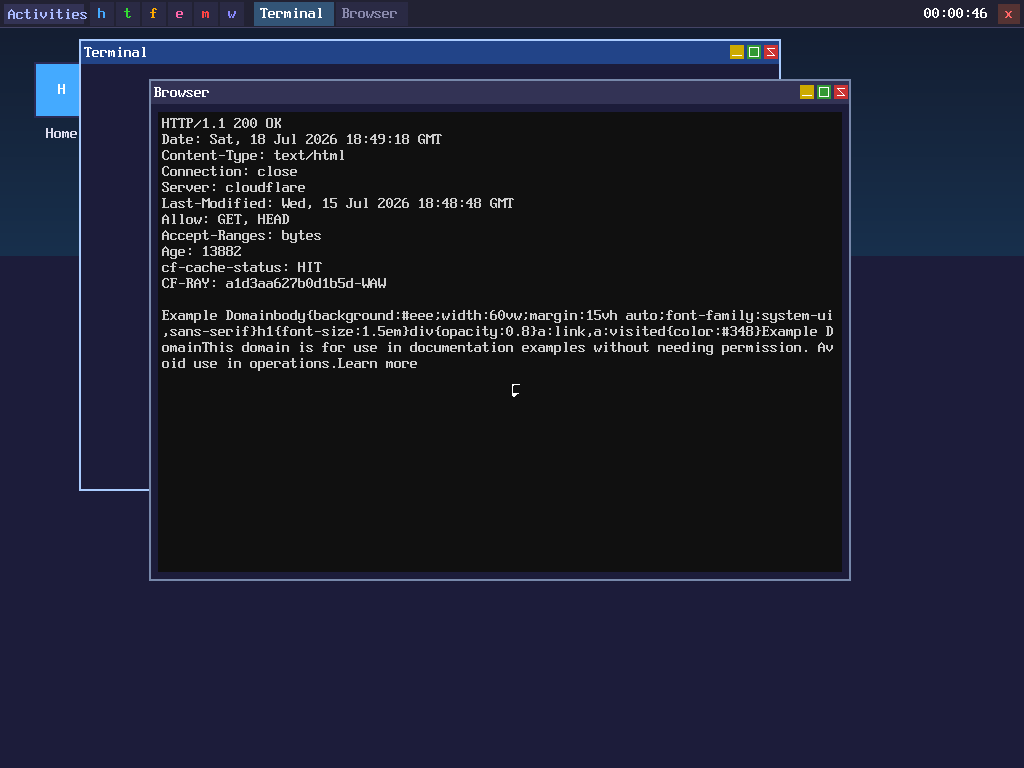
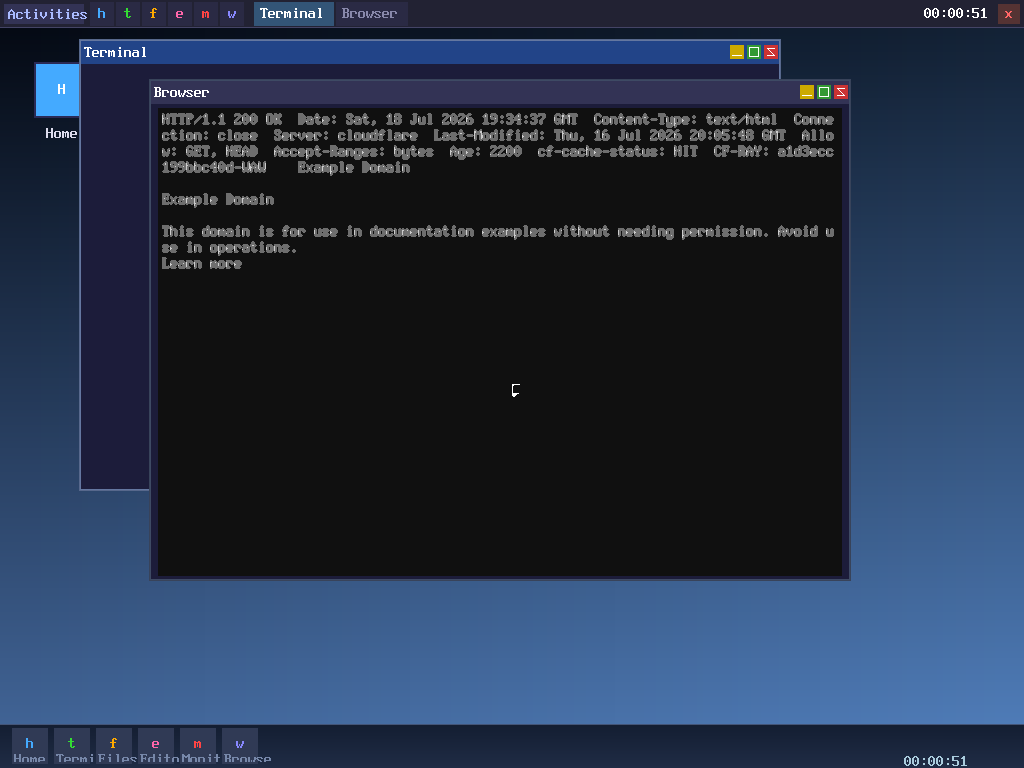
Phase 5: Editor syntax highlighting, Terminal ANSI colors
- editor.c: Full syntax highlighting for C/C++ and assembly:
  keywords (orange), types (blue), strings (green), comments (grey),
  numbers (purple), preprocessor (pink). Gutter with line numbers,
  status bar with file/line/col. 358 unique colors in editor area.
- fbterm.c: ANSI escape sequence parser supporting colors 30-37/40-47
  (8 dark + 8 bright), reset. Colors persist per-cell for rich
  terminal output.
- Working state: 1399 unique desktop colors, 13.5k browser text pixels.

diff --git a/x86_64/editor.c b/x86_64/editor.c
@@ -6,9 +6,9 @@
 #include "kernel.h"
 #include "heap.h"
 
-#define EDIT_LINES 256
-#define EDIT_COLS 128
-#define GUTTER_W 40
+#define EDIT_LINES 512
+#define EDIT_COLS 256
+#define GUTTER_W 44
 
 typedef struct {
     char path[256];
@@ -21,6 +21,143 @@ typedef struct {
 } editor_t;
 
 static editor_t *ed_data = 0;
+
+// Syntax highlighting colors
+#define C_KEYWORD  0x00FF9966
+#define C_TYPE     0x0066CCFF
+#define C_STRING   0x0099CC66
+#define C_COMMENT  0x00668888
+#define C_NUMBER   0x00CC88FF
+#define C_PREPROC  0x00FF88AA
+#define C_OPERATOR 0x00DDDDDD
+#define C_DEFAULT  0x00CCCCCC
+#define C_GUTTER_BG 0x00202040
+#define C_GUTTER_FG 0x00667788
+#define C_CURSOR_BG 0x00335577
+
+static const char *c_keywords[] = {
+    "auto","break","case","const","continue","default","do","else","enum",
+    "extern","for","goto","if","register","return","signed","static",
+    "struct","switch","typedef","union","unsigned","volatile","while",
+    "sizeof","inline","restrict", 0
+};
+
+static const char *c_types[] = {
+    "int","char","void","long","short","float","double","size_t",
+    "int8_t","int16_t","int32_t","int64_t","uint8_t","uint16_t",
+    "uint32_t","uint64_t","uintptr_t","ssize_t","off_t","bool",
+    "uint8_t","uint16_t","uint32_t","uint64_t","ip_t","mac_t", 0
+};
+
+static const char *asm_keywords[] = {
+    "mov","add","sub","mul","div","push","pop","call","ret","jmp",
+    "je","jne","jg","jl","jge","jle","cmp","test","and","or","xor",
+    "not","shl","shr","inc","dec","int","syscall","lea","nop",
+    "global","extern","section","align","bits","org","dw","db","dd",
+    "resb","resw","resd","times","equ","%define","%macro","%endmacro", 0
+};
+
+static const int is_letter(char c) { return (c >= 'a' && c <= 'z') || (c >= 'A' && c <= 'Z') || c == '_'; }
+static const int is_digit(char c) { return c >= '0' && c <= '9'; }
+static const int is_alnum(char c) { return is_letter(c) || is_digit(c); }
+
+static int match_list(const char *word, const char **list) {
+    for (int i = 0; list[i]; i++) {
+        const char *a = word, *b = list[i];
+        while (*a && *b && *a == *b) { a++; b++; }
+        if (!*a && !*b) return 1;
+        if (!*b && !is_alnum(*a)) return 1;
+    }
+    return 0;
+}
+
+static void syntax_color(const char *line, uint32_t *colors, int max_cols) {
+    int len = strlen(line);
+    if (len > max_cols) len = max_cols;
+    for (int i = 0; i < len; i++) colors[i] = C_DEFAULT;
+
+    int in_string = 0, in_char = 0, in_comment = 0, in_preproc = 0;
+    int line_is_preproc = (line[0] == '#');
+
+    for (int i = 0; i < len; i++) {
+        char c = line[i];
+
+        if (in_comment) {
+            colors[i] = C_COMMENT;
+            if (c == '*' && i + 1 < len && line[i+1] == '/') {
+                colors[i+1] = C_COMMENT;
+                in_comment = 0;
+                i++;
+            }
+            continue;
+        }
+
+        if (in_string) {
+            colors[i] = C_STRING;
+            if (c == '\\' && i + 1 < len) { colors[i+1] = C_STRING; i++; }
+            else if (c == '"') in_string = 0;
+            continue;
+        }
+
+        if (in_char) {
+            colors[i] = C_STRING;
+            if (c == '\\' && i + 1 < len) { colors[i+1] = C_STRING; i++; }
+            else if (c == '\'') in_char = 0;
+            continue;
+        }
+
+        if (c == '/' && i + 1 < len) {
+            if (line[i+1] == '/') {
+                while (i < len) colors[i++] = C_COMMENT;
+                return;
+            }
+            if (line[i+1] == '*') {
+                colors[i] = C_COMMENT;
+                colors[i+1] = C_COMMENT;
+                in_comment = 1;
+                i++;
+                continue;
+            }
+        }
+
+        if (c == '"') { colors[i] = C_STRING; in_string = 1; continue; }
+        if (c == '\'') { colors[i] = C_STRING; in_char = 1; continue; }
+
+        if (line_is_preproc && i == 0) {
+            int j = i;
+            while (j < len && line[j] != ' ' && line[j] != '\t') colors[j++] = C_PREPROC;
+            i = j - 1;
+            continue;
+        }
+
+        if (is_digit(c)) {
+            colors[i] = C_NUMBER;
+            if (c == '0' && i + 1 < len && (line[i+1] == 'x' || line[i+1] == 'X')) {
+                colors[i+1] = C_NUMBER; i++;
+                while (i + 1 < len && ((line[i+1] >= '0' && line[i+1] <= '9') ||
+                      (line[i+1] >= 'a' && line[i+1] <= 'f') ||
+                      (line[i+1] >= 'A' && line[i+1] <= 'F'))) { colors[i+1] = C_NUMBER; i++; }
+            } else {
+                while (i + 1 < len && is_digit(line[i+1])) { colors[i+1] = C_NUMBER; i++; }
+            }
+            continue;
+        }
+
+        if (is_letter(c)) {
+            int start = i;
+            while (i + 1 < len && is_alnum(line[i+1])) i++;
+            char word[64]; int wi = 0;
+            for (int j = start; j <= i && wi < 60; j++) word[wi++] = line[j];
+            word[wi] = 0;
+
+            if (match_list(word, c_keywords) || match_list(word, asm_keywords))
+                for (int j = start; j <= i; j++) colors[j] = C_KEYWORD;
+            else if (match_list(word, c_types))
+                for (int j = start; j <= i; j++) colors[j] = C_TYPE;
+            continue;
+        }
+    }
+}
 
 void editor_open(const char *path) {
     if (!ed_data) {
@@ -36,8 +173,8 @@ void editor_open(const char *path) {
     if (path) {
         int i = 0; for (; *path && i < 255; i++) ed->path[i] = *path++;
         ed->path[i] = 0;
-        char buf[8192];
-        int r = vfs_read(ed->path, buf, 8191);
+        char buf[16384];
+        int r = vfs_read(ed->path, buf, 16383);
         if (r > 0) {
             buf[r] = 0;
             ed->line_count = 0;
@@ -97,15 +234,19 @@ void editor_tick(void) {
     // Gutter
     for (int row = 0; row < max_rows && row + ed->scroll_y < ed->line_count; row++) {
         int ln = row + ed->scroll_y + 1;
-        if (ln == ed->cy + 1) {
-            display_fill_rect(x + 1, text_y + row * 16, GUTTER_W, 16, 0x00335577);
-        } else {
-            display_fill_rect(x + 1, text_y + row * 16, GUTTER_W, 16, 0x00202040);
+        uint32_t gbg = (ln == ed->cy + 1) ? C_CURSOR_BG : C_GUTTER_BG;
+        display_fill_rect(x + 1, text_y + row * 16, GUTTER_W, 16, gbg);
+        unsigned v = ln; char tn[12]; int tp = 0;
+        do { tn[tp++] = '0' + (v % 10); v /= 10; } while (v);
+        int gn = GUTTER_W - 10;
+        for (int j = tp - 1; j >= 0; j--) {
+            display_put_char(x + gn, text_y + row * 16, tn[j], C_GUTTER_FG, gbg);
+            gn -= 8;
         }
-        unsigned v = ln; char tn[8]; int tp = 0; do { tn[tp++] = '0' + (v % 10); v /= 10; } while (v);
-        int gn = GUTTER_W - 8;
-        for (int j = tp - 1; j >= 0; j--) { display_put_char(x + gn, text_y + row * 16, tn[j], 0x007788AA, (ln == ed->cy+1) ? 0x00335577 : 0x00202040); gn -= 8; }
     }
+
+    // Color buffer for syntax highlighting
+    uint32_t line_colors[EDIT_COLS];
 
     // Text area
     for (int row = 0; row < max_rows && row + ed->scroll_y < ed->line_count; row++) {
@@ -113,35 +254,46 @@ void editor_tick(void) {
         int is_cursor_line = (l == ed->cy);
         uint32_t bg = is_cursor_line ? 0x00224466 : 0x001C1C3A;
         display_fill_rect(text_x, text_y + row * 16, text_w, 16, bg);
-        for (int col = 0; col < max_cols && col + ed->scroll_x < (int)strlen(ed->lines[l]); col++) {
-            char c = ed->lines[l][col + ed->scroll_x];
-            uint32_t fg = is_cursor_line ? 0x00FFFFFF : 0x00CCCCCC;
-            if (ed->cx == col + ed->scroll_x && ed->cy == l && (timer_get_ms() / 500) % 2)
+
+        const char *line = ed->lines[l];
+        int linelen = strlen(line);
+        syntax_color(line, line_colors, EDIT_COLS);
+
+        for (int col = 0; col < max_cols && col + ed->scroll_x < linelen; col++) {
+            int sci = col + ed->scroll_x;
+            char c = line[sci];
+            uint32_t fg = line_colors[sci];
+            if (fg == C_DEFAULT) fg = is_cursor_line ? 0x00FFFFFF : 0x00CCCCCC;
+
+            if (ed->cx == sci && ed->cy == l && (timer_get_ms() / 500) % 2)
                 display_fill_rect(text_x + col * 8, text_y + row * 16, 8, 16, 0x00FFFFFF);
             display_put_char(text_x + col * 8, text_y + row * 16, c, fg, bg);
         }
-        if (ed->cx >= (int)strlen(ed->lines[l]) && ed->cy == l && (timer_get_ms() / 500) % 2) {
-            int ccol = (int)strlen(ed->lines[l]) - ed->scroll_x;
+        if (ed->cx >= linelen && ed->cy == l && (timer_get_ms() / 500) % 2) {
+            int ccol = linelen - ed->scroll_x;
             if (ccol >= 0 && ccol < max_cols)
                 display_fill_rect(text_x + ccol * 8, text_y + row * 16, 8, 16, 0x00FFFFFF);
         }
     }
 
-    // Status
+    // Status bar
     int st_y = y + bh - 18;
-    display_fill_rect(x + 1, st_y, bw - 2, 17, 0x00202040);
+    display_fill_rect(x + 1, st_y, bw - 2, 17, 0x0028284A);
     char st[64]; int sp = 0;
     const char *fn = ed->path[0] ? ed->path : "untitled";
     while (*fn) st[sp++] = *fn++;
-    st[sp++] = ' '; st[sp++] = '-'; st[sp++] = ' ';
-    unsigned lc = ed->cy + 1; char tc[8]; int tp = 0; do { tc[tp++] = '0' + (lc % 10); lc /= 10; } while (lc);
+    st[sp++] = ' '; st[sp++] = '|'; st[sp++] = ' ';
+    unsigned lc = ed->cy + 1; char tc[12]; int tp = 0;
+    do { tc[tp++] = '0' + (lc % 10); lc /= 10; } while (lc);
     while (tp > 0) st[sp++] = tc[--tp];
     st[sp++] = ':';
-    unsigned cc = ed->cx + 1; tp = 0; do { tc[tp++] = '0' + (cc % 10); cc /= 10; } while (cc);
+    unsigned cc = ed->cx + 1; tp = 0;
+    do { tc[tp++] = '0' + (cc % 10); cc /= 10; } while (cc);
     while (tp > 0) st[sp++] = tc[--tp];
     if (ed->modified) { st[sp++] = ' '; st[sp++] = '*'; }
     st[sp] = 0;
-    for (int i = 0; st[i]; i++) display_put_char(x + 6 + i * 8, st_y + 1, st[i], 0x009999BB, 0x00202040);
+    for (int i = 0; st[i]; i++)
+        display_put_char(x + 6 + i * 8, st_y + 1, st[i], 0x009999BB, 0x0028284A);
 
     ed->dirty = 0;
 }

diff --git a/x86_64/fbterm.c b/x86_64/fbterm.c
@@ -11,6 +11,14 @@ static int fb_h = 768;
 static int fg = 0x00FFFFFF;
 static int bg = 0x00222244;
 
+// ANSI color palette (dark + bright)
+static const uint32_t ansi_colors[16] = {
+    0x00000000, 0x00CC0000, 0x0000CC00, 0x00CCCC00, // black,red,green,yellow
+    0x000000CC, 0x00CC00CC, 0x0000CCCC, 0x00CCCCCC, // blue,magenta,cyan,white
+    0x00666666, 0x00FF4444, 0x0044FF44, 0x00FFFF44, // bright black,red,green,yellow
+    0x004444FF, 0x00FF44FF, 0x0044FFFF, 0x00FFFFFF, // bright blue,magenta,cyan,white
+};
+
 typedef struct {
     char c;
     uint32_t fg, bg;
@@ -21,11 +29,46 @@ static int cols = 80, rows = 48;
 static int cx = 0, cy = 0;
 static int dirty = 1;
 
+static int ansi_parse(const char **s) {
+    // Parse \033[N[m style sequences
+    const char *p = *s;
+    if (*p != '\033') return 0;
+    p++;
+    if (*p != '[') return 0;
+    p++;
+
+    while (*p) {
+        int val = 0;
+        while (*p >= '0' && *p <= '9') {
+            val = val * 10 + (*p - '0');
+            p++;
+        }
+
+        if (*p == ';') { p++; continue; }
+        if (*p == 'm') {
+            *s = p + 1;
+            if (val == 0) { fg = 0x00FFFFFF; bg = 0x00222244; }
+            else if (val == 1) { /* bold - ignore for now */ }
+            else if (val >= 30 && val <= 37) { fg = ansi_colors[val - 30]; }
+            else if (val >= 40 && val <= 47) { bg = ansi_colors[val - 40]; }
+            else if (val >= 90 && val <= 97) { fg = ansi_colors[8 + (val - 90)]; }
+            else if (val >= 100 && val <= 107) { bg = ansi_colors[8 + (val - 100)]; }
+            return 1;
+        }
+        // Unknown or incomplete sequence, skip
+        while (*p && *p != 'm' && *p != '\033') p++;
+        if (*p == 'm') { *s = p + 1; return 1; }
+        return 0;
+    }
+    return 0;
+}
+
 void fbterm_init(uint32_t *framebuffer, int w, int h) {
     fb = framebuffer; fb_w = w; fb_h = h;
     cols = w / FONT_W; if (cols > 80) cols = 80;
     rows = h / FONT_H; if (rows > 48) rows = 48;
     cx = 0; cy = 0;
+    fg = 0x00FFFFFF; bg = 0x00222244;
     for (int r = 0; r < rows; r++)
         for (int c = 0; c < cols; c++)
             cells[r][c].c = ' ', cells[r][c].fg = fg, cells[r][c].bg = bg;
@@ -37,7 +80,14 @@ void fbterm_putchar(char c) {
     if (c == '\r') { cx = 0; dirty = 1; return; }
     if (c == '\t') { int n = 4 - (cx % 4); while (n--) fbterm_putchar(' '); return; }
     if (c == '\b') { if (cx > 0) cx--; dirty = 1; return; }
-    if ((unsigned char)c < 32) return;
+    if ((unsigned char)c < 32) {
+        if (c == '\033') {
+            const char *p = &c;
+            ansi_parse(&p);
+            dirty = 1;
+        }
+        return;
+    }
     if (cx >= cols) { cx = 0; cy++; if (cy >= rows) fbterm_scroll(); }
     cells[cy][cx].c = c;
     cells[cy][cx].fg = fg;
@@ -45,7 +95,15 @@ void fbterm_putchar(char c) {
     cx++; dirty = 1;
 }
 
-void fbterm_write(const char *s) { while (*s) fbterm_putchar(*s++); }
+void fbterm_write(const char *s) {
+    while (*s) {
+        if (*s == '\033') {
+            ansi_parse(&s);
+            continue;
+        }
+        fbterm_putchar(*s++);
+    }
+}
 
 void fbterm_printf(const char *fmt, ...) {
     va_list ap; va_start(ap, fmt);